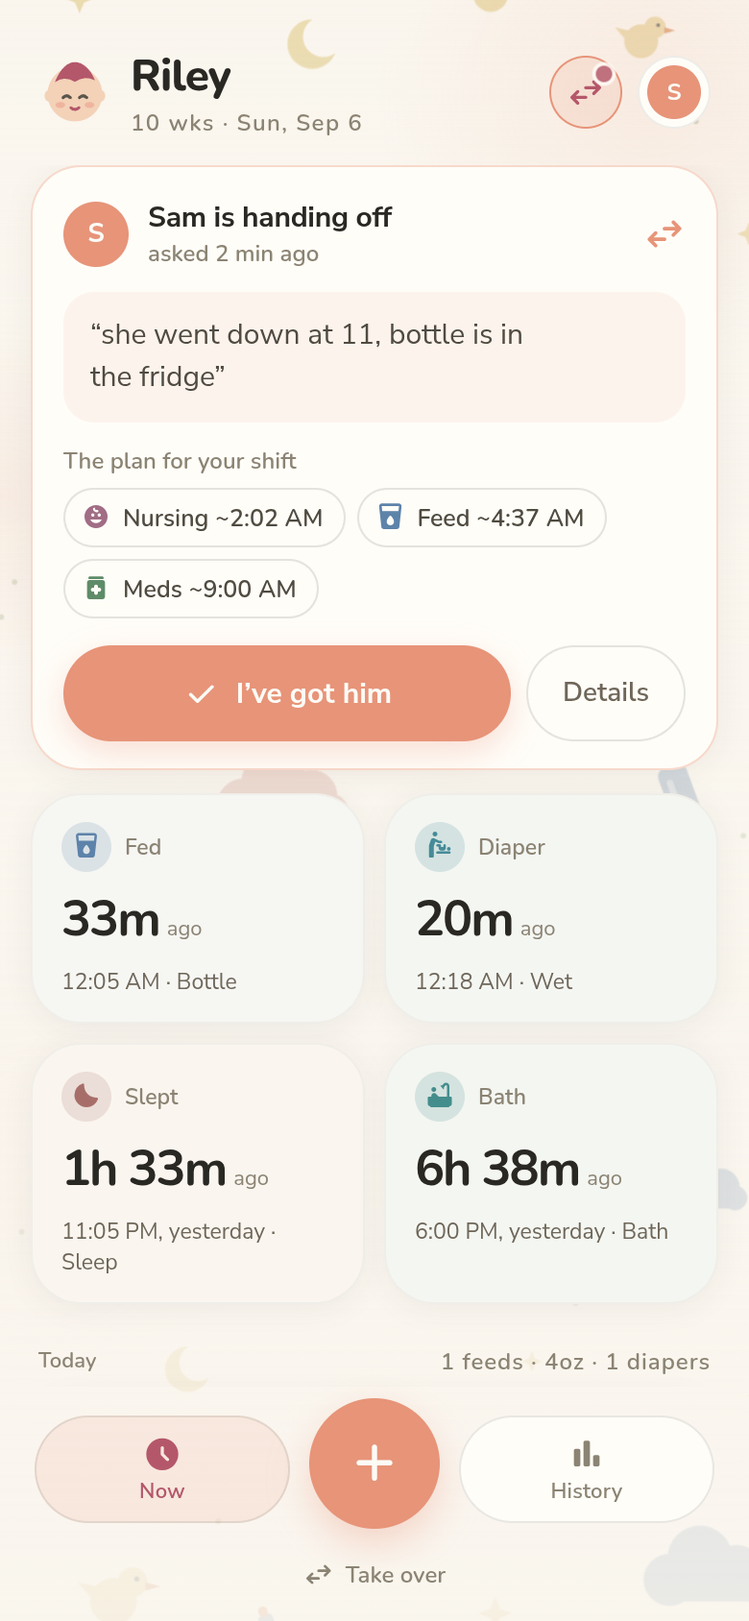
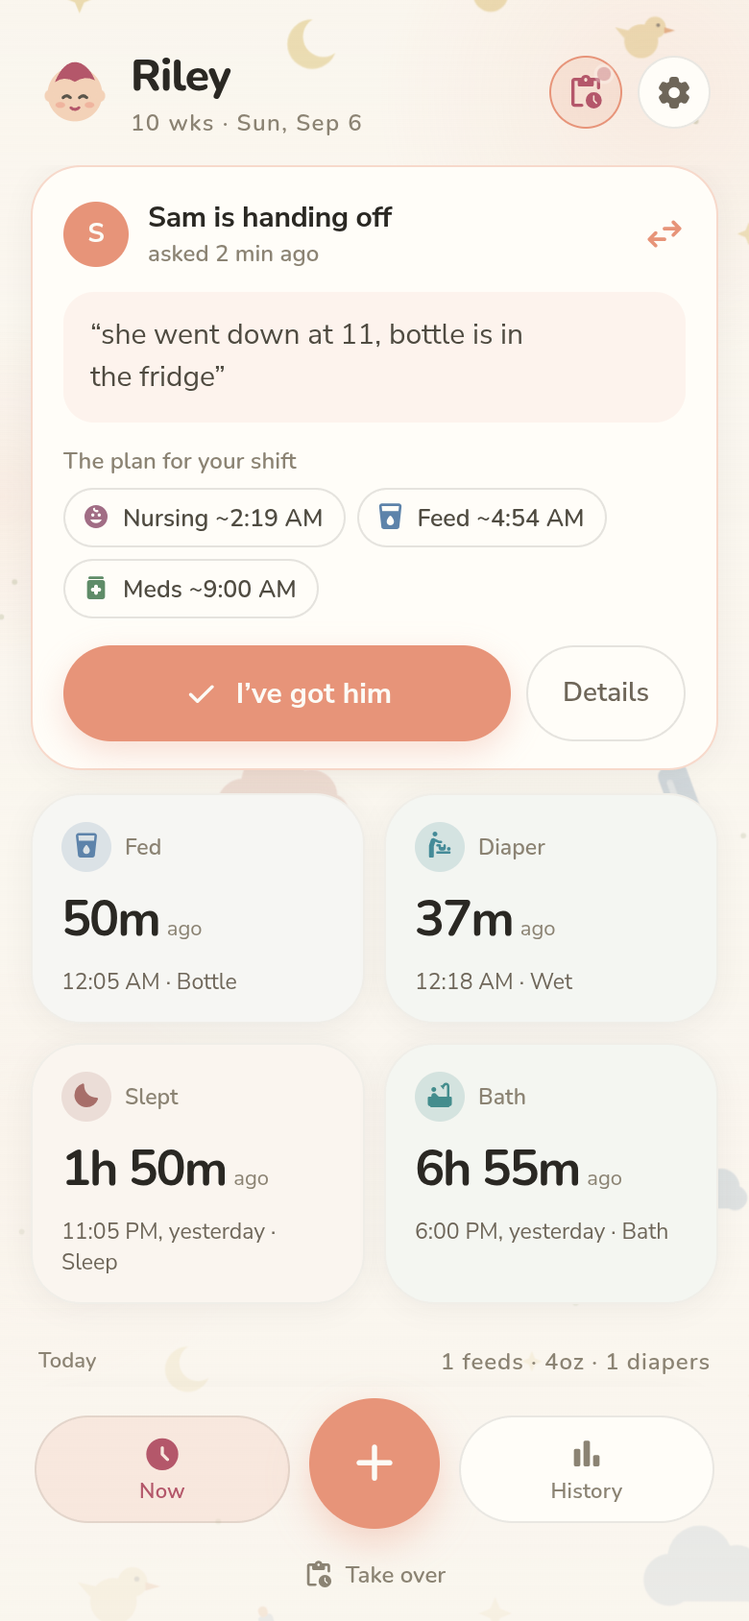
fix: the header says what it does — a cog, and a clipboard for the shift
Three complaints, one cause: the two icons that replaced the duty pill
didn't name themselves. An avatar that opened Settings read as a profile
switcher, so it's the cog now — and History loses its duplicate cog, which
means Settings has one door and returns through it (the popstate handler
sent it to History regardless of where it opened from; now it goes to Now).

The shift button was swap_horiz, which says "swap" but not what is being
swapped. It's pending_actions: a clipboard of timed items, which is
literally what the sheet holds — the plan, whoever's shift it is.

The cost, noted in known-limitations: with the avatar gone nothing on Now
states whose duty it is at a glance. The button's accessible name and the
footer's verb ("Hand off" vs "Take over") carry it; the three duty-pill
strings are pruned from the catalogs.

Screenshots retaken — all six, since the footer shortcut is on every tab.

diff --git a/src/App.jsx b/src/App.jsx
@@ -334,13 +334,14 @@ export default class App extends React.Component {
     initFx(() => applyTheme(this.state.settings.theme)) // OS scheme / light sensor changes re-resolve dark
     applyTheme(this.state.settings.theme)
     // Android back gesture closes overlays in stacking order: sheet first,
-    // then the settings screen back to history — never straight out of the app.
+    // then the settings screen back to Now (the only place it opens from)
+    // — never straight out of the app.
     // A stale entry can survive a reload mid-overlay — drop it so back exits.
     this._pop = () => {
       if (this.state.sheet) return this.dismissSheet()
       if (this.state.shiftOpen) return this.dismissShift()
       if (this.state.screen === 'history' && this.state.historyDay) return this.setState({ historyDay: null })
-      if (this.state.screen === 'settings') this.setState({ screen: 'history' })
+      if (this.state.screen === 'settings') this.setState({ screen: 'home' })
     }
     window.addEventListener('popstate', this._pop)
     if (window.history.state?.blSheet || window.history.state?.blShift || window.history.state?.blSettings || window.history.state?.blDay) {
@@ -2224,7 +2225,8 @@ export default class App extends React.Component {
       settingsBack: () => {
         // consume our entry so the button and the back gesture stay in step
         if (window.history.state?.blSettings) return window.history.back()
-        this.setState({ screen: 'history' })
+        // Now is the only door into Settings, so it's the only way back out
+        this.setState({ screen: 'home' })
       },
       showTabs: ['home', 'history', 'settings'].includes(s.screen),
       isSplash: s.screen === 'splash', isAuth: s.screen === 'auth', isLogin: s.authMode === 'login', isSignup: s.authMode === 'signup',
@@ -2343,12 +2345,10 @@ export default class App extends React.Component {
       // nothing-open all moved into the sheet behind the header button.
       incoming: incomingReq && s.screen === 'home',
       theirs: activeTheirs && !iAmOnDuty,
-      dutyInitial: iAmOnDuty ? initial(me?.name) : initial(dutyHolder?.name || partner?.name),
-      dutyColor: iAmOnDuty ? ME_COLOR : (s.members.length > 2 && s.onDutyUserId != null ? this.memberColor(s.onDutyUserId) : PARTNER_COLOR),
-      dutyLabel: partner ? (iAmOnDuty ? t('You · on duty') : t('{name} · on duty', { name: dutyName })) : t('Just you so far'),
-      // the header's shift button. It names the action it opens on (same label
-      // as the footer shortcut) and only shouts — accent fill plus a pulsing
-      // dot — when someone is waiting on an answer from you
+      // the header's shift button. Icon-only, so its accessible name IS the
+      // state — which is also where "who has the baby" lives now that the duty
+      // avatar is gone. It only shouts — accent fill plus a pulsing dot — when
+      // someone is waiting on an answer from you.
       shiftBtnLabel: incomingReq ? t('{name} is handing off', { name: requesterName })
         : activeMine ? t('Your shift') : activeTheirs ? t('{name}’s shift', { name: shiftOwnerName })
           : myAsk ? t('Waiting for {name}', { name: partnerName }) : t('Start my shift'),
@@ -2726,7 +2726,7 @@ export default class App extends React.Component {
             <div style={S('position:absolute;top:-8%;right:-16%;width:66%;aspect-ratio:1;border-radius:999px;background:radial-gradient(circle, rgba(var(--accent-rgb),0.16), rgba(var(--accent-rgb),0) 70%)')} />
             <div style={S('position:absolute;bottom:14%;left:-18%;width:58%;aspect-ratio:1;border-radius:999px;background:radial-gradient(circle, rgba(var(--accent-rgb),0.12), rgba(var(--accent-rgb),0) 70%)')} />
           </div>
-          <div style={S('position:absolute;inset:0;background:linear-gradient(to bottom, rgba(250,246,239,0.25), rgba(250,246,239,0.6) 45%, rgba(250,246,239,0.85))')} />
+          <div className="bg-wash" style={S('position:absolute;inset:0;background:linear-gradient(to bottom, rgba(250,246,239,0.25), rgba(250,246,239,0.6) 45%, rgba(250,246,239,0.85))')} />
           <div className="fx-layer fx-near" style={S('position:absolute;inset:-36px')}>
             <div style={S('position:absolute;top:22%;left:-12%;width:40%;aspect-ratio:1;border-radius:999px;background:radial-gradient(circle, rgba(var(--accent-rgb),0.10), rgba(var(--accent-rgb),0) 70%)')} />
           </div>
@@ -2899,13 +2899,14 @@ export default class App extends React.Component {
                     have nobody to hand off to, so they get no button at all. */}
                 {v.hasPartner && (
                   <button type="button" onClick={v.openShift} aria-label={v.shiftBtnLabel} title={v.shiftBtnLabel} className="hov-bd" style={S(`position:relative;width:38px;height:38px;padding:0;background:${v.shiftBtnBg};border:1px solid ${v.shiftBtnBorder};border-radius:999px;display:flex;align-items:center;justify-content:center;cursor:pointer;font-family:inherit;flex-shrink:0`)}>
-                    <Sym style={{ fontSize: 20, color: v.shiftBtnFg }}>swap_horiz</Sym>
+                    <Sym style={{ fontSize: 20, color: v.shiftBtnFg }}>pending_actions</Sym>
                     {v.shiftBtnDot && <div className="live-dot" style={S('position:absolute;top:2px;right:2px;width:9px;height:9px;border-radius:999px;background:var(--accent-deep);border:2px solid var(--surface)')} />}
                   </button>
                 )}
-                {/* who has the baby (colour + initial), and a tap into your profile */}
-                <button type="button" onClick={v.goSettings} aria-label={t('Settings')} title={v.dutyLabel} className="hov-bd" style={S('width:38px;height:38px;padding:0;background:#FFFDF8;border:1px solid rgba(38,35,29,0.08);border-radius:999px;display:flex;align-items:center;justify-content:center;cursor:pointer;font-family:inherit;flex-shrink:0')}>
-                  <div style={S(`width:28px;height:28px;border-radius:999px;background:${v.dutyColor};display:flex;align-items:center;justify-content:center;font-size:12px;font-weight:700;color:#FCFBF6`)}>{v.dutyInitial}</div>
+                {/* Settings lives here now, not on History — an avatar that
+                    opened Settings read as a profile switcher */}
+                <button type="button" onClick={v.goSettings} aria-label={t('Settings')} className="hov-cream" style={S('width:38px;height:38px;padding:0;background:#FFFDF8;border:1px solid rgba(38,35,29,0.10);border-radius:999px;display:flex;align-items:center;justify-content:center;cursor:pointer;font-family:inherit;flex-shrink:0')}>
+                  <Sym style={{ fontSize: 20, color: 'var(--muted)' }}>settings</Sym>
                 </button>
               </div>
             </div>
@@ -2975,7 +2976,7 @@ export default class App extends React.Component {
               )}
 
               {/* your shift, their shift, and on-duty-not-started all live in
-                  the shift sheet now (header swap_horiz) — Now keeps only the
+                  the shift sheet now (the header's pending_actions) — Now keeps only the
                   incoming ask above, because that one needs answering */}
               <div style={S('display:grid;grid-template-columns:1fr 1fr;gap:10px')}>
                 {v.sinceCards.map((c, i) => (
@@ -3082,10 +3083,8 @@ export default class App extends React.Component {
                     <div style={S("font-family:'Nunito',sans-serif;font-weight:800;font-size:23px;letter-spacing:-0.02em")}>{t('Last 7 days')}</div>
                     <div style={S("font-family:'Nunito',sans-serif;font-weight:600;font-size:12px;color:#8C8474;letter-spacing:0.06em")}>{v.historySubtitle}</div>
                   </div>
-                  <div style={S('flex:1')} />
-                  <button type="button" onClick={v.goSettings} className="hov-cream" style={S('width:38px;height:38px;background:#FFFDF8;border:1px solid rgba(38,35,29,0.10);border-radius:999px;display:flex;align-items:center;justify-content:center;cursor:pointer;flex-shrink:0')}>
-                    <Sym style={{ fontSize: 20, color: 'var(--muted)' }}>settings</Sym>
-                  </button>
+                  {/* no Settings cog here — Now owns that door, so Settings
+                      has one way in and one way back */}
                 </>
               )}
             </div>
@@ -3841,7 +3840,7 @@ export default class App extends React.Component {
             {v.hasPartner && (
               <div style={S('display:flex;justify-content:center;padding-top:6px;position:relative;z-index:1')}>
                 <button type="button" onClick={v.openShift} className="hov-dim" style={S('background:none;border:none;display:flex;align-items:center;gap:6px;cursor:pointer;font-family:inherit;padding:4px 10px')}>
-                  <Sym style={{ fontSize: 16, color: 'var(--soft)' }}>swap_horiz</Sym>
+                  <Sym style={{ fontSize: 16, color: 'var(--soft)' }}>pending_actions</Sym>
                   <div style={S("font-family:'Nunito',sans-serif;font-weight:600;font-size:12px;color:#8C8474")}>{v.footerShiftLabel}</div>
                 </button>
               </div>
@@ -3871,7 +3870,7 @@ export default class App extends React.Component {
             }}>
               <div style={S('position:absolute;inset:0;z-index:0')}>
                 <img className="bg-art" src="/art/sheet-bg.png" alt="" style={S('width:100%;height:100%;object-fit:cover;display:block')} />
-                <div style={S('position:absolute;inset:0;background:rgba(250,246,239,0.7);pointer-events:none')} />
+                <div className="bg-wash" style={S('position:absolute;inset:0;background:rgba(250,246,239,0.7);pointer-events:none')} />
               </div>
               <div onPointerDown={v.sheetDragStart} onPointerMove={v.sheetDragMove} onPointerUp={v.sheetDragEnd} onPointerCancel={v.sheetDragEnd}
                 style={S('position:relative;z-index:1;flex-shrink:0;padding:13px 0 13px;margin:-10px -16px 0;cursor:grab;touch-action:none')}>

diff --git a/src/locales/bn.js b/src/locales/bn.js
@@ -20,7 +20,6 @@ export default {
   '{n}h': '{n} ঘণ্টা',
   '{n}m': '{n} মি',
   '{n}y': '{n} বছর',
-  '{name} · on duty': '{name} · দায়িত্বে',
   '{name} added — the pills on Now switch between them': '{name} যুক্ত হলো — «এখন» পাতার বোতামগুলো দিয়ে ওদের মধ্যে বদলানো যায়',
   '{name} can no longer open this log': '{name} আর এই লগ খুলতে পারবেন না',
   '{name} gets a “you’re covered” ping and can sleep.': '{name} «চিন্তা নেই, আমি আছি» বার্তা পাবেন আর নিশ্চিন্তে ঘুমাতে পারবেন।',
@@ -203,7 +202,6 @@ export default {
   'Invited {email} — their code is {code}': '{email}-কে আমন্ত্রণ করা হয়েছে — ওর কোড {code}',
   'Invited by a partner? Use the same email they sent it to and you’ll land in their log.': 'সঙ্গীর কাছ থেকে আমন্ত্রণ পেয়েছেন? যে ইমেলে আমন্ত্রণ এসেছে সেটাই ব্যবহার করুন, সরাসরি ওদের লগে পৌঁছে যাবেন।',
   'It can only do what you tick here — and only as your account.': 'এটা শুধু এখানে টিক দেওয়া কাজগুলোই করতে পারবে — এবং কেবল আপনার অ্যাকাউন্ট হিসেবে।',
-  'Just you so far': 'এখনও শুধু আপনি',
   'Keep': 'রাখুন',
   'Keep logging — once there’s a rhythm, it shows up here.': 'লগ করতে থাকুন — একটা ছন্দ তৈরি হলেই এখানে দেখা যাবে।',
   'Language': 'ভাষা',
@@ -434,7 +432,6 @@ export default {
   'Yes, revoke': 'হ্যাঁ, বাতিল করুন',
   'Yesterday': 'গতকাল',
   'You': 'আপনি',
-  'You · on duty': 'আপনি · দায়িত্বে',
   'You won’t see this again — copy it now.': 'এটা আর দেখতে পাবেন না — এখনই কপি করে নিন।',
   'You’ll log in with the new address from now on — this phone stays signed in.': 'এখন থেকে নতুন ঠিকানা দিয়ে লগ ইন করবেন — এই ফোনটা সাইন ইন থাকবে।',
   'You’re on duty': 'আপনি দায়িত্বে',

diff --git a/src/locales/mr.js b/src/locales/mr.js
@@ -20,7 +20,6 @@ export default {
   '{n}h': '{n}ता',
   '{n}m': '{n}मि',
   '{n}y': '{n}व',
-  '{name} · on duty': '{name} · ड्युटीवर',
   '{name} added — the pills on Now switch between them': '{name} जोडले — “आत्ता” वरची पिल बटणे यांच्यात बदलतात',
   '{name} can no longer open this log': '{name} आता हा लॉग उघडू शकत नाहीत',
   '{name} gets a “you’re covered” ping and can sleep.': '{name} यांना “आता निवांत झोपा” अशी सूचना मिळेल आणि ते झोपू शकतात.',
@@ -203,7 +202,6 @@ export default {
   'Invited {email} — their code is {code}': '{email} ला इन्व्हाइट केले — त्यांचा कोड {code} आहे',
   'Invited by a partner? Use the same email they sent it to and you’ll land in their log.': 'पार्टनरने इन्व्हाइट केले आहे? त्यांनी ज्या ईमेलवर पाठवले तोच वापरा — तुम्ही थेट त्यांच्या लॉगमध्ये पोहोचाल.',
   'It can only do what you tick here — and only as your account.': 'तुम्ही इथे जे टिक कराल तेवढेच हे करू शकते — आणि फक्त तुमच्या खात्याने.',
-  'Just you so far': 'आत्तापर्यंत फक्त तुम्ही',
   'Keep': 'ठेवा',
   'Keep logging — once there’s a rhythm, it shows up here.': 'लॉग करत राहा — ताल जमला की इथे दिसू लागेल.',
   'Language': 'भाषा',
@@ -434,7 +432,6 @@ export default {
   'Yes, revoke': 'हो, रद्द करा',
   'Yesterday': 'काल',
   'You': 'तुम्ही',
-  'You · on duty': 'तुम्ही · ड्युटीवर',
   'You won’t see this again — copy it now.': 'हे पुन्हा दिसणार नाही — आत्ताच कॉपी करा.',
   'You’ll log in with the new address from now on — this phone stays signed in.': 'यापुढे तुम्ही नव्या पत्त्याने लॉग इन कराल — हा फोन साइन इन राहील.',
   'You’re on duty': 'तुम्ही ड्युटीवर आहात',

diff --git a/src/locales/te.js b/src/locales/te.js
@@ -20,7 +20,6 @@ export default {
   '{n}h': '{n}గం',
   '{n}m': '{n}ని',
   '{n}y': '{n}సం',
-  '{name} · on duty': '{name} · డ్యూటీలో',
   '{name} added — the pills on Now switch between them': '{name} చేరారు — “ఇప్పుడు”లోని పిల్ బటన్లు వీరి మధ్య మారుస్తాయి',
   '{name} can no longer open this log': '{name} ఇక ఈ లాగ్ తెరవలేరు',
   '{name} gets a “you’re covered” ping and can sleep.': '{name}కి “ఇక హాయిగా పడుకో” అనే పింగ్ వెళ్తుంది, వాళ్లు నిద్రపోవచ్చు.',
@@ -203,7 +202,6 @@ export default {
   'Invited {email} — their code is {code}': '{email}ని ఆహ్వానించారు — వారి కోడ్ {code}',
   'Invited by a partner? Use the same email they sent it to and you’ll land in their log.': 'పార్టనర్ ఆహ్వానించారా? వారు పంపిన అదే ఈమెయిల్ వాడండి — నేరుగా వారి లాగ్లోకి చేరుకుంటారు.',
   'It can only do what you tick here — and only as your account.': 'ఇది మీరు ఇక్కడ టిక్ చేసినవే చేయగలదు — అదీ మీ ఖాతాగా మాత్రమే.',
-  'Just you so far': 'ఇప్పటివరకు మీరే',
   'Keep': 'ఉంచండి',
   'Keep logging — once there’s a rhythm, it shows up here.': 'లాగ్ చేస్తూ ఉండండి — లయ ఏర్పడగానే ఇక్కడ కనబడుతుంది.',
   'Language': 'భాష',
@@ -434,7 +432,6 @@ export default {
   'Yes, revoke': 'అవును, రద్దు చేయండి',
   'Yesterday': 'నిన్న',
   'You': 'మీరు',
-  'You · on duty': 'మీరు · డ్యూటీలో',
   'You won’t see this again — copy it now.': 'ఇది మళ్లీ కనబడదు — ఇప్పుడే కాపీ చేసుకోండి.',
   'You’ll log in with the new address from now on — this phone stays signed in.': 'ఇక నుంచి కొత్త చిరునామాతో లాగిన్ అవుతారు — ఈ ఫోన్ సైన్ ఇన్లోనే ఉంటుంది.',
   'You’re on duty': 'మీరు డ్యూటీలో ఉన్నారు',

diff --git a/src/locales/hi.js b/src/locales/hi.js
@@ -20,7 +20,6 @@ export default {
   '{n}h': '{n}घं',
   '{n}m': '{n}मि',
   '{n}y': '{n}व',
-  '{name} · on duty': '{name} · ड्यूटी पर',
   '{name} added — the pills on Now switch between them': '{name} जुड़ गए — “अभी” स्क्रीन के पिल बटन इनके बीच बदलते हैं',
   '{name} can no longer open this log': '{name} अब यह लॉग नहीं खोल सकते',
   '{name} gets a “you’re covered” ping and can sleep.': '{name} को “अब आराम करो” वाली सूचना मिलेगी और वे सो सकते हैं।',
@@ -203,7 +202,6 @@ export default {
   'Invited {email} — their code is {code}': '{email} को इनवाइट किया — उनका कोड {code} है',
   'Invited by a partner? Use the same email they sent it to and you’ll land in their log.': 'पार्टनर ने इनवाइट किया है? वही ईमेल इस्तेमाल करें जिस पर उन्होंने भेजा था — आप सीधे उनके लॉग में पहुँच जाएँगे।',
   'It can only do what you tick here — and only as your account.': 'यह सिर्फ़ वही कर सकता है जो आप यहाँ टिक करें — और सिर्फ़ आपके खाते के रूप में।',
-  'Just you so far': 'अभी सिर्फ़ आप',
   'Keep': 'रखें',
   'Keep logging — once there’s a rhythm, it shows up here.': 'लॉग करते रहें — रिदम बनते ही यहाँ दिखने लगेगा।',
   'Language': 'भाषा',
@@ -434,7 +432,6 @@ export default {
   'Yes, revoke': 'हाँ, रद्द करें',
   'Yesterday': 'कल',
   'You': 'आप',
-  'You · on duty': 'आप · ड्यूटी पर',
   'You won’t see this again — copy it now.': 'यह दोबारा नहीं दिखेगा — अभी कॉपी कर लें।',
   'You’ll log in with the new address from now on — this phone stays signed in.': 'अब से आप नए पते से लॉग इन करेंगे — यह फ़ोन साइन इन रहेगा।',
   'You’re on duty': 'आप ड्यूटी पर हैं',

diff --git a/src/locales/ru.js b/src/locales/ru.js
@@ -20,7 +20,6 @@ export default {
   '{n}h': '{n} ч',
   '{n}m': '{n} мин',
   '{n}y': '{n} г.',
-  '{name} · on duty': '{name} · на смене',
   '{name} added — the pills on Now switch between them': '{name} добавлен — переключатели на «Сейчас» помогут выбрать ребёнка',
   '{name} can no longer open this log': '{name} больше не может открыть этот дневник',
   '{name} gets a “you’re covered” ping and can sleep.': '{name} получит пинг «тебя подменили» и сможет поспать.',
@@ -203,7 +202,6 @@ export default {
   'Invited {email} — their code is {code}': '{email} приглашён — код: {code}',
   'Invited by a partner? Use the same email they sent it to and you’ll land in their log.': 'Тебя пригласил партнёр? Используй ту же почту, на которую пришло приглашение, — и попадёшь в его дневник.',
   'It can only do what you tick here — and only as your account.': 'Он может только то, что ты здесь отметишь, — и только от имени твоего аккаунта.',
-  'Just you so far': 'Пока только ты',
   'Keep': 'Оставить',
   'Keep logging — once there’s a rhythm, it shows up here.': 'Продолжай записывать — как только появится ритм, он покажется здесь.',
   'Language': 'Язык',
@@ -434,7 +432,6 @@ export default {
   'Yes, revoke': 'Да, отозвать',
   'Yesterday': 'Вчера',
   'You': 'Ты',
-  'You · on duty': 'Ты · на смене',
   'You won’t see this again — copy it now.': 'Больше ты его не увидишь — скопируй сейчас.',
   'You’ll log in with the new address from now on — this phone stays signed in.': 'Теперь входить будешь с новым адресом — этот телефон остаётся в системе.',
   'You’re on duty': 'Ты на смене',

diff --git a/src/locales/ur.js b/src/locales/ur.js
@@ -20,7 +20,6 @@ export default {
   '{n}h': '{n} گھنٹے',
   '{n}m': '{n} منٹ',
   '{n}y': '{n} سال',
-  '{name} · on duty': '{name} · ڈیوٹی پر',
   '{name} added — the pills on Now switch between them': '{name} شامل ہو گئے — «ابھی» کے بٹن ان کے درمیان سوئچ کرتے ہیں',
   '{name} can no longer open this log': '{name} اب یہ لاگ نہیں کھول سکتے',
   '{name} gets a “you’re covered” ping and can sleep.': '{name} کو «فکر نہ کریں، میں ہوں» والی اطلاع ملے گی اور وہ سو سکتے ہیں۔',
@@ -203,7 +202,6 @@ export default {
   'Invited {email} — their code is {code}': '{email} کو مدعو کیا — ان کا کوڈ {code} ہے',
   'Invited by a partner? Use the same email they sent it to and you’ll land in their log.': 'کسی ساتھی نے مدعو کیا؟ وہی ایمیل استعمال کریں جس پر دعوت آئی تھی، آپ سیدھے ان کے لاگ میں پہنچ جائیں گے۔',
   'It can only do what you tick here — and only as your account.': 'یہ صرف وہی کر سکتا ہے جو آپ یہاں منتخب کریں — اور صرف آپ کے اکاؤنٹ کے طور پر۔',
-  'Just you so far': 'ابھی صرف آپ ہیں',
   'Keep': 'رکھیں',
   'Keep logging — once there’s a rhythm, it shows up here.': 'لاگ کرتے رہیں — جب ردھم بنے گا تو یہاں نظر آئے گا۔',
   'Language': 'زبان',
@@ -434,7 +432,6 @@ export default {
   'Yes, revoke': 'جی، منسوخ کریں',
   'Yesterday': 'گزشتہ کل',
   'You': 'آپ',
-  'You · on duty': 'آپ · ڈیوٹی پر',
   'You won’t see this again — copy it now.': 'یہ دوبارہ نظر نہیں آئے گا — ابھی کاپی کر لیں۔',
   'You’ll log in with the new address from now on — this phone stays signed in.': 'اب سے آپ نئے ایڈریس سے لاگ اِن کریں گے — یہ فون سائن اِن رہے گا۔',
   'You’re on duty': 'آپ ڈیوٹی پر ہیں',

diff --git a/src/locales/ja.js b/src/locales/ja.js
@@ -20,7 +20,6 @@ export default {
   '{n}h': '{n}時間',
   '{n}m': '{n}分',
   '{n}y': '{n}歳',
-  '{name} · on duty': '{name} · 担当中',
   '{name} added — the pills on Now switch between them': '{name}を追加しました — 「いま」画面のタブで切り替えられます',
   '{name} can no longer open this log': '{name}はこの記録を開けなくなりました',
   '{name} gets a “you’re covered” ping and can sleep.': '{name}に「交代したよ」の通知が届いて、安心して眠れます。',
@@ -203,7 +202,6 @@ export default {
   'Invited {email} — their code is {code}': '{email}を招待しました — コードは{code}です',
   'Invited by a partner? Use the same email they sent it to and you’ll land in their log.': 'パートナーから招待されましたか？招待が届いたメールアドレスで登録すると、同じ記録に入れます。',
   'It can only do what you tick here — and only as your account.': 'ここでチェックしたことしかできません — しかも、あなたのアカウントとしてだけです。',
-  'Just you so far': '今はあなただけ',
   'Keep': 'そのまま',
   'Keep logging — once there’s a rhythm, it shows up here.': '記録を続けてみて — リズムができたら、ここに現れます。',
   'Language': '言語',
@@ -434,7 +432,6 @@ export default {
   'Yes, revoke': 'はい、取り消します',
   'Yesterday': '昨日',
   'You': 'あなた',
-  'You · on duty': 'あなた · 担当中',
   'You won’t see this again — copy it now.': 'これは二度と表示されません — 今コピーしてください。',
   'You’ll log in with the new address from now on — this phone stays signed in.': 'これからは新しいアドレスでログインします — このスマホはログインしたままです。',
   'You’re on duty': 'あなたが担当中',

diff --git a/src/locales/ar.js b/src/locales/ar.js
@@ -20,7 +20,6 @@ export default {
   '{n}h': '{n} س',
   '{n}m': '{n} د',
   '{n}y': '{n} سنة',
-  '{name} · on duty': '{name} · في المناوبة',
   '{name} added — the pills on Now switch between them': 'تمت إضافة {name} — أزرار التبديل في «الآن» تنقّل بينهم',
   '{name} can no longer open this log': 'لم يعد بإمكان {name} فتح هذا السجل',
   '{name} gets a “you’re covered” ping and can sleep.': 'يصل إلى {name} تنبيه «الأمور مغطاة» ويمكنه النوم.',
@@ -203,7 +202,6 @@ export default {
   'Invited {email} — their code is {code}': 'تمت دعوة {email} — رمزهم هو {code}',
   'Invited by a partner? Use the same email they sent it to and you’ll land in their log.': 'دعاك شريك؟ استخدم البريد نفسه الذي أُرسلت إليه الدعوة وستدخل سجلهم مباشرة.',
   'It can only do what you tick here — and only as your account.': 'لا يمكنه فعل سوى ما تحدده هنا — وباسم حسابك فقط.',
-  'Just you so far': 'أنت وحدك حتى الآن',
   'Keep': 'إبقاء',
   'Keep logging — once there’s a rhythm, it shows up here.': 'واصل التسجيل — حين يتشكل إيقاع، سيظهر هنا.',
   'Language': 'اللغة',
@@ -434,7 +432,6 @@ export default {
   'Yes, revoke': 'نعم، ألغِ',
   'Yesterday': 'أمس',
   'You': 'أنت',
-  'You · on duty': 'أنت · في المناوبة',
   'You won’t see this again — copy it now.': 'لن تراه مرة أخرى — انسخه الآن.',
   'You’ll log in with the new address from now on — this phone stays signed in.': 'ستسجّل الدخول بالعنوان الجديد من الآن فصاعدًا — هذا الهاتف يبقى مسجّل الدخول.',
   'You’re on duty': 'أنت في المناوبة',

diff --git a/src/locales/fr.js b/src/locales/fr.js
@@ -20,7 +20,6 @@ export default {
   '{n}h': '{n}h',
   '{n}m': '{n}m',
   '{n}y': '{n}a',
-  '{name} · on duty': '{name} · de garde',
   '{name} added — the pills on Now switch between them': '{name} ajouté — les pastilles de Maintenant basculent entre eux',
   '{name} can no longer open this log': '{name} ne peut plus ouvrir ce journal',
   '{name} gets a “you’re covered” ping and can sleep.': '{name} reçoit une alerte « c’est géré » et peut dormir.',
@@ -203,7 +202,6 @@ export default {
   'Invited {email} — their code is {code}': 'Invitation envoyée à {email} — son code est {code}',
   'Invited by a partner? Use the same email they sent it to and you’ll land in their log.': 'Invité par un partenaire ? Utilise le même e-mail que l’invitation et tu atterriras dans son journal.',
   'It can only do what you tick here — and only as your account.': 'Il ne peut faire que ce que tu coches ici — et seulement avec ton compte.',
-  'Just you so far': 'Que toi pour l’instant',
   'Keep': 'Garder',
   'Keep logging — once there’s a rhythm, it shows up here.': 'Continue d’enregistrer — dès qu’un rythme se dessine, il apparaît ici.',
   'Language': 'Langue',
@@ -434,7 +432,6 @@ export default {
   'Yes, revoke': 'Oui, révoquer',
   'Yesterday': 'Hier',
   'You': 'Toi',
-  'You · on duty': 'Toi · de garde',
   'You won’t see this again — copy it now.': 'Tu ne le reverras plus — copie-le maintenant.',
   'You’ll log in with the new address from now on — this phone stays signed in.': 'Tu te connecteras désormais avec la nouvelle adresse — ce téléphone reste connecté.',
   'You’re on duty': 'Tu es de garde',

diff --git a/src/locales/de.js b/src/locales/de.js
@@ -20,7 +20,6 @@ export default {
   '{n}h': '{n} Std',
   '{n}m': '{n} Min',
   '{n}y': '{n} J',
-  '{name} · on duty': '{name} · im Dienst',
   '{name} added — the pills on Now switch between them': '{name} hinzugefügt — mit den Pillen auf „Jetzt“ wechselst du zwischen ihnen',
   '{name} can no longer open this log': '{name} kann dieses Logbuch nicht mehr öffnen',
   '{name} gets a “you’re covered” ping and can sleep.': '{name} bekommt ein „Du bist abgelöst“-Ping und kann schlafen.',
@@ -203,7 +202,6 @@ export default {
   'Invited {email} — their code is {code}': '{email} eingeladen — der Code ist {code}',
   'Invited by a partner? Use the same email they sent it to and you’ll land in their log.': 'Von einem Partner eingeladen? Nimm dieselbe E-Mail, an die die Einladung ging, und du landest in seinem Logbuch.',
   'It can only do what you tick here — and only as your account.': 'Es kann nur, was du hier anhakst — und nur als dein Konto.',
-  'Just you so far': 'Bisher nur du',
   'Keep': 'Behalten',
   'Keep logging — once there’s a rhythm, it shows up here.': 'Trag weiter ein — sobald ein Rhythmus da ist, taucht er hier auf.',
   'Language': 'Sprache',
@@ -434,7 +432,6 @@ export default {
   'Yes, revoke': 'Ja, widerrufen',
   'Yesterday': 'Gestern',
   'You': 'Du',
-  'You · on duty': 'Du · im Dienst',
   'You won’t see this again — copy it now.': 'Du siehst das nicht nochmal — kopier es jetzt.',
   'You’ll log in with the new address from now on — this phone stays signed in.': 'Ab jetzt meldest du dich mit der neuen Adresse an — dieses Handy bleibt angemeldet.',
   'You’re on duty': 'Du bist im Dienst',

diff --git a/src/locales/id.js b/src/locales/id.js
@@ -20,7 +20,6 @@ export default {
   '{n}h': '{n} jam',
   '{n}m': '{n} mnt',
   '{n}y': '{n} thn',
-  '{name} · on duty': '{name} · lagi jaga',
   '{name} added — the pills on Now switch between them': '{name} sudah masuk — tombol pil di layar Sekarang buat pindah antar anak',
   '{name} can no longer open this log': '{name} nggak bisa lagi membuka catatan ini',
   '{name} gets a “you’re covered” ping and can sleep.': '{name} dapat ping “sudah ada yang gantiin” dan bisa tidur.',
@@ -203,7 +202,6 @@ export default {
   'Invited {email} — their code is {code}': '{email} diundang — kodenya {code}',
   'Invited by a partner? Use the same email they sent it to and you’ll land in their log.': 'Diundang pasangan? Pakai email yang sama dengan yang dikirimi undangan, dan kamu langsung masuk ke catatannya.',
   'It can only do what you tick here — and only as your account.': 'Dia cuma bisa melakukan yang kamu centang di sini — dan hanya sebagai akunmu.',
-  'Just you so far': 'Baru kamu sejauh ini',
   'Keep': 'Biarkan',
   'Keep logging — once there’s a rhythm, it shows up here.': 'Terus catat — begitu ritmenya kebentuk, dia muncul di sini.',
   'Language': 'Bahasa',
@@ -434,7 +432,6 @@ export default {
   'Yes, revoke': 'Ya, cabut',
   'Yesterday': 'Kemarin',
   'You': 'Kamu',
-  'You · on duty': 'Kamu · lagi jaga',
   'You won’t see this again — copy it now.': 'Ini nggak akan muncul lagi — salin sekarang.',
   'You’ll log in with the new address from now on — this phone stays signed in.': 'Mulai sekarang kamu masuk pakai alamat baru — ponsel ini tetap masuk.',
   'You’re on duty': 'Kamu lagi jaga',
